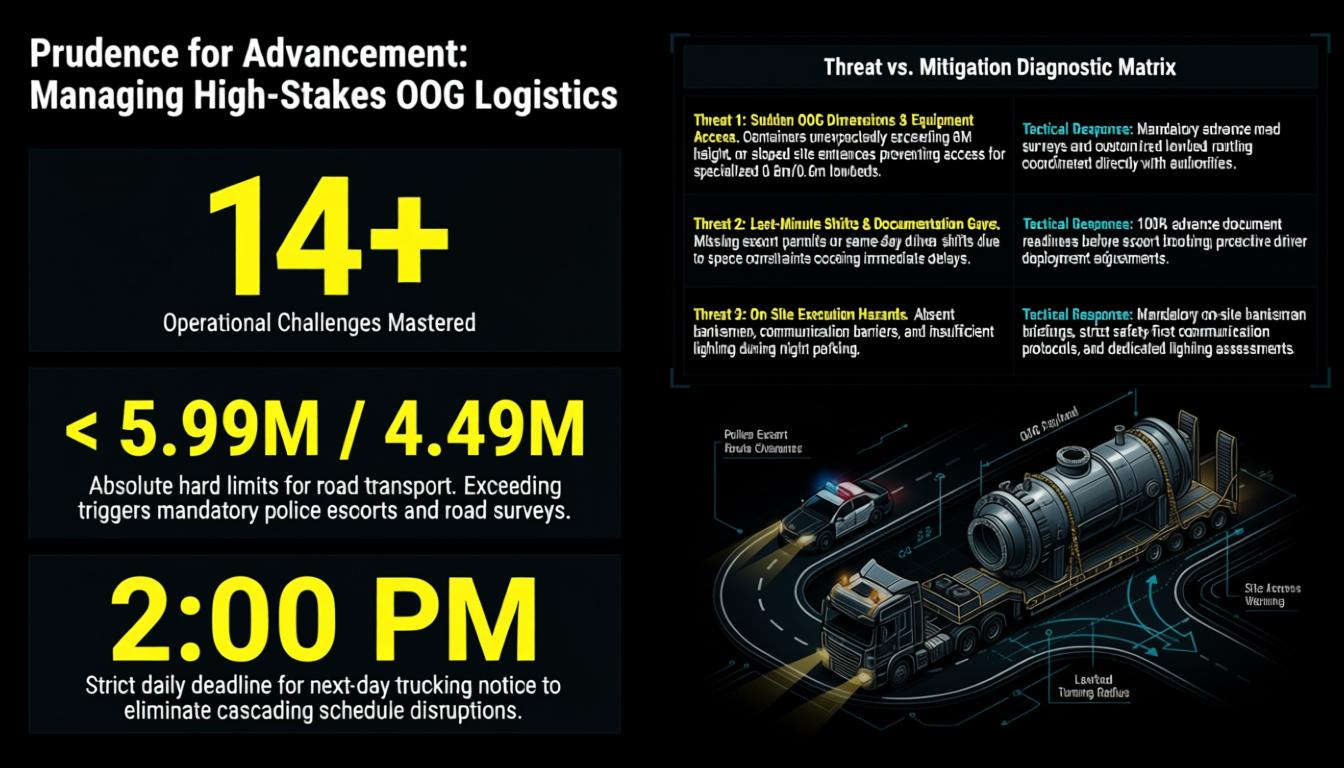
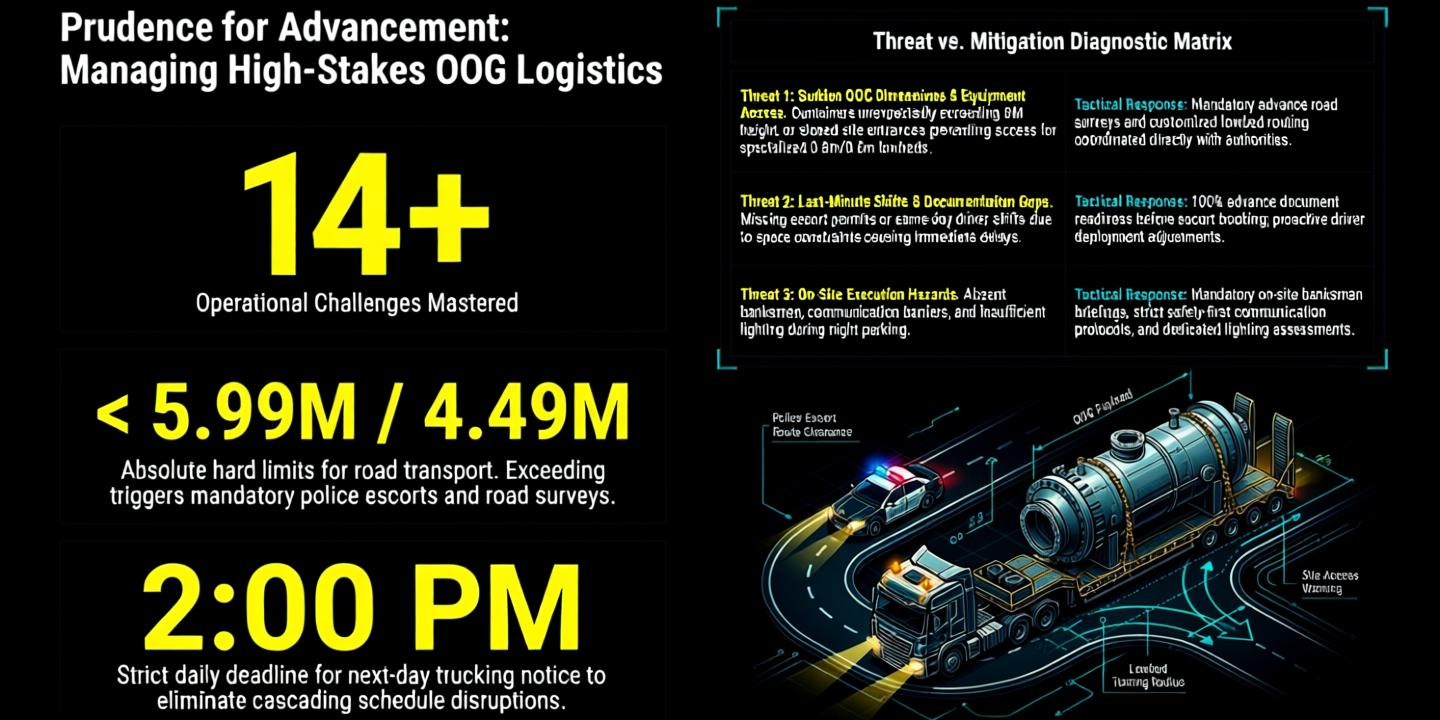
cdb9f37c-8c55-4220-b4ee-07aa4f4cf253

diff --git a/src/app/page.tsx b/src/app/page.tsx
@@ -859,7 +859,7 @@ function InfographicButton({
       </button>
 
       <Dialog open={show} onOpenChange={setShow}>
-        <DialogContent className="max-w-4xl w-[95vw] p-0 overflow-hidden bg-zinc-950 border-border">
+        <DialogContent className="max-w-[1200px] w-[96vw] p-0 overflow-hidden bg-zinc-950 border-border">
           <DialogTitle className="sr-only">{label}</DialogTitle>
           <div className="relative">
             <button